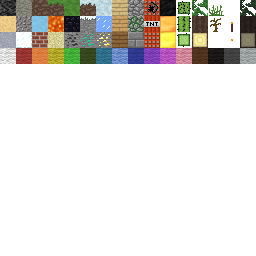
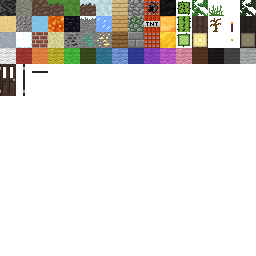
Update the door texture

Changed region(s): [[0.0, 0.25, 0.1875, 0.375], [0.625, 0.125, 0.6875, 0.1875]]

diff --git a/core/src/com/travall/game/renderer/Picker.java b/core/src/com/travall/game/renderer/Picker.java
@@ -2,7 +2,6 @@ package com.travall.game.renderer;
 
 import static com.badlogic.gdx.Gdx.gl;
 
-import com.badlogic.gdx.Gdx;
 import com.badlogic.gdx.graphics.GL20;
 import com.badlogic.gdx.graphics.PerspectiveCamera;
 import com.badlogic.gdx.graphics.glutils.ShapeRenderer;
@@ -28,7 +27,7 @@ public final class Picker {
 	
 	public static void render(PerspectiveCamera camera) {
 		if (!hasHit) return;
-		Gdx.gl.glLineWidth(2);
+		gl.glLineWidth(2);
 		gl.glEnable(GL20.GL_BLEND);
 		intsCam(camera);
 		shape.setProjectionMatrix(pickCam.combined);

diff --git a/core/src/com/travall/game/Main.java b/core/src/com/travall/game/Main.java
@@ -264,6 +264,8 @@ public class Main extends ApplicationAdapter {
 					} else if(button == Buttons.MIDDLE) {
 						blockType = world.getBlock(info.in);
 					}
+				} else if (button == Buttons.LEFT) {
+					blockType.onDestroy(player,info);
 				}
 			}
 		}
